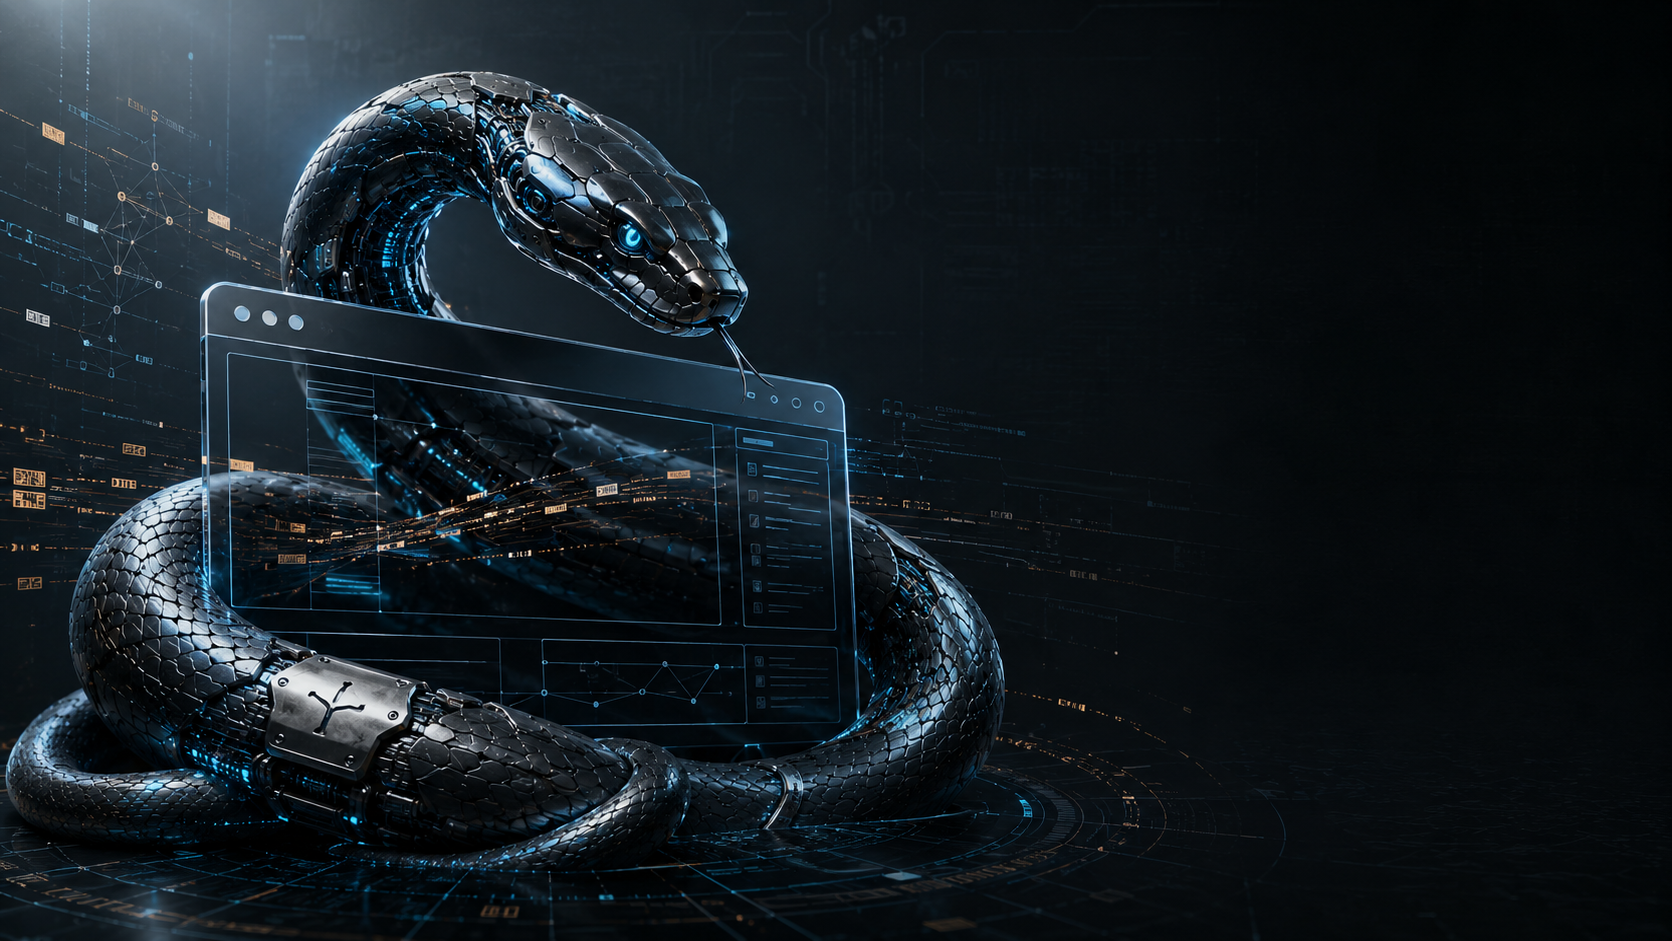
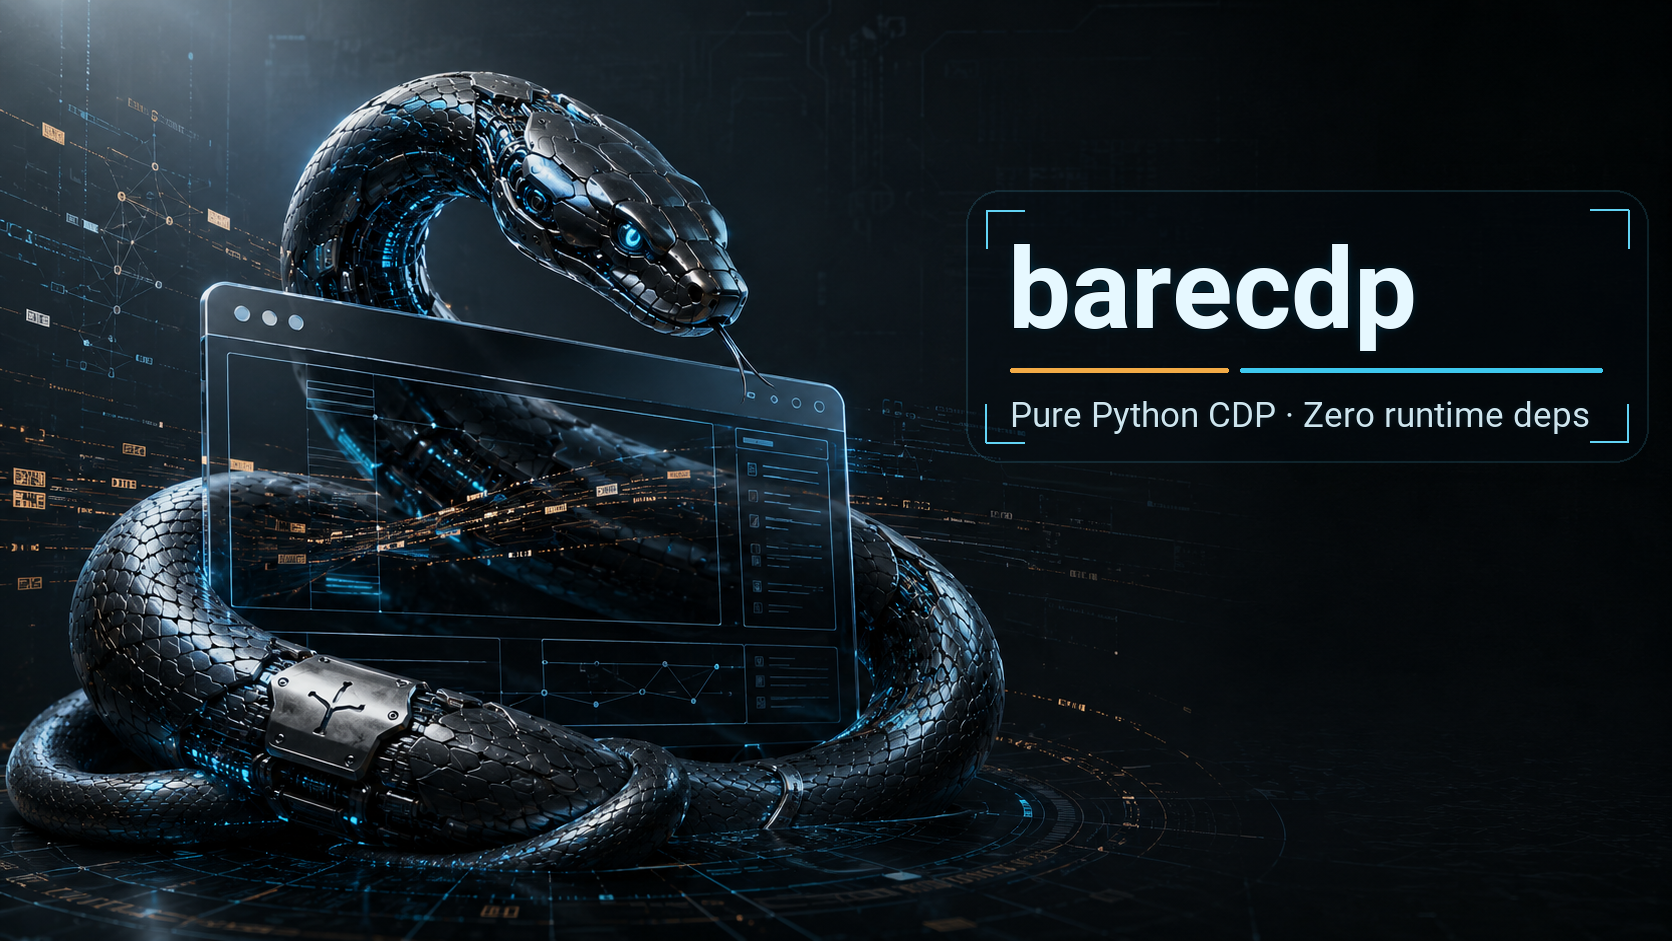
docs: add final README header overlay
- Render the selected Roboto overlay onto the README header image.
- Use the final caption: "Pure Python CDP · Zero runtime deps".
- Update the image alt text so the overlay claim is accessible.

Verification:
- README local links/assets check passed
- docs/assets/bare-cdp-flow.svg parses as XML
- docs/assets/bare-cdp-header.png verified as PNG, 1672x941
- changed-file secret/signature scan passed

Changed region(s): [[0.5909, 0.2465, 0.9641, 0.4006], [0.5909, 0.4315, 0.9641, 0.4931]]

diff --git a/README.md b/README.md
@@ -14,7 +14,7 @@
 </p>
 
 <p align="center">
-  <img src="docs/assets/bare-cdp-header.png" alt="A black mechanical serpent coiled around a translucent browser window, with blue and amber code traces across a dark technical interface" width="100%">
+  <img src="docs/assets/bare-cdp-header.png" alt="BareCDP header: a black mechanical serpent coiled around a translucent browser window, with overlay text reading barecdp, Pure Python CDP · Zero runtime deps" width="100%">
 </p>
 
 ---